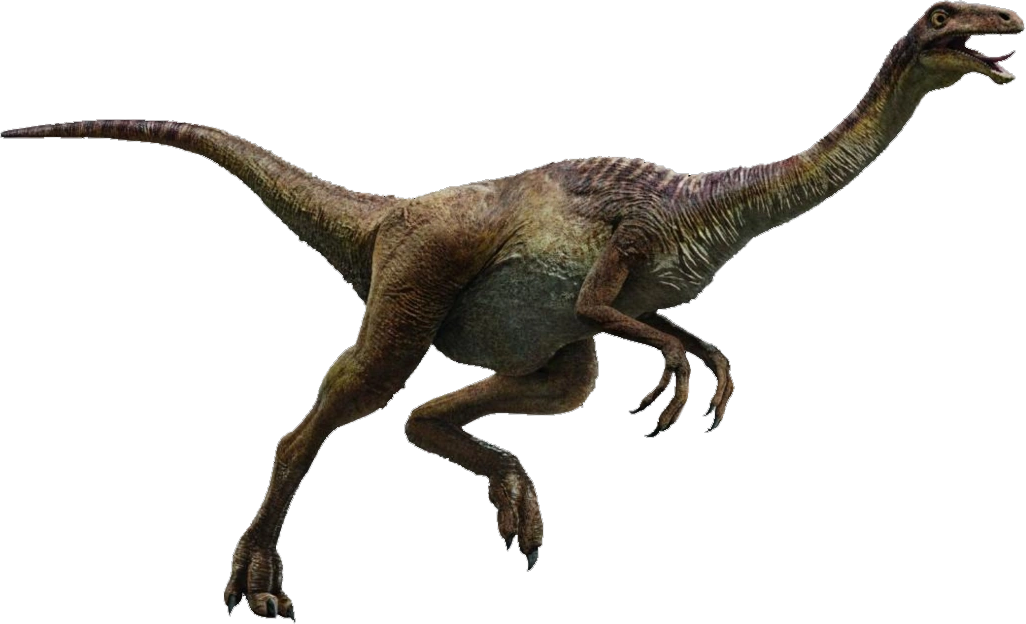
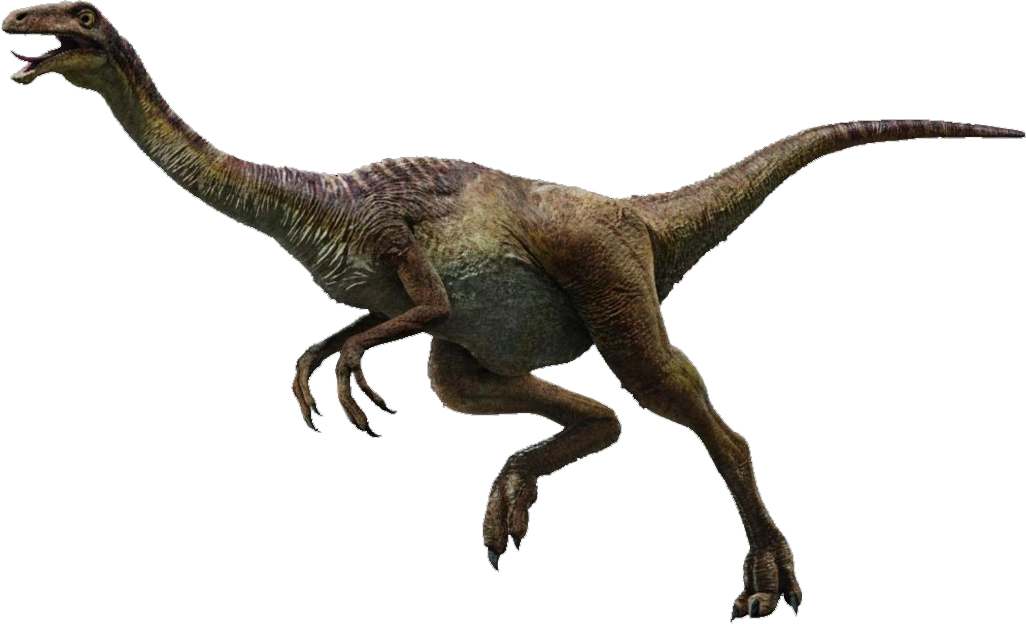
dinosaur positioning.

Changed region(s): [[0.0, 0.0, 1.0, 1.0]]

diff --git a/src/pages/public/Jurassic-Superior/Jurassic-Superior.module.css b/src/pages/public/Jurassic-Superior/Jurassic-Superior.module.css
@@ -2,8 +2,8 @@
   width: 100vw;
   height: 100vh;
   background-image: url(/public/assets/img/era-bg/room-bg-8.png);
-  background-size: 100% 100%;
-  background-position: center;
+  background-size: 100% 105%;
+  background-position: center top;
   background-repeat: no-repeat;
   overflow: hidden;
   position: relative;
@@ -35,22 +35,22 @@
 .geneticBg1 {
   width: 40%;
   height: 70%;
-  left: -2%;
-  bottom: 12%;
+  left: 35%;
+  bottom: 22%;
 }
 
 .geneticBg2 {
   width: 40%;
   height: 60%;
-  left: 28%;
-  bottom: 6%;
+  left: 1%;
+  bottom: 5%;
 }
 
 .geneticBg3 {
   width: 28%;
   height: 40%;
-  left: 65%;
-  bottom: 28%;
+  left: 70%;
+  bottom: 16%;
 }
 
 @keyframes breathe {
@@ -76,16 +76,19 @@
 .dinosaur1 {
   background-image: url(/public/assets/img/dinosaurs/ju-3-Brachiosaurus.png);
   animation: breathe 2s infinite ease-in-out;
+  transform: scaleX(-1);
 }
 
 .dinosaur2 {
   background-image: url(/public/assets/img/dinosaurs/ju-3-Diplodocus.png);
   animation: breathe 4s infinite ease-in-out;
+  
 }
 
 .dinosaur3 {
   background-image: url(/public/assets/img/dinosaurs/ju-3-Stegosaurus.png);
   animation: breathe 3s infinite ease-in-out;
+  
 }
 
 .nameFrame {
@@ -155,33 +158,4 @@
   0% { transform: rotate(3deg); }
   50% { transform: rotate(-3deg); }
   100% { transform: rotate(3deg); }
-}
-
-.plant1,
-.plant2,
-.plant3 {
-  background-size: contain;
-  background-repeat: no-repeat;
-  background-position: center;
-  position: absolute;
-}
-
-.plant1 {
-  width: 30%;
-  height: 30%;
-  left: 50%;
-  top: 0%;
-  background-image: url(/public/assets/img/plants/palm-tree.png);
-  transform-origin: top;
-  animation: sway 4s ease-in-out infinite alternate;
-}
-
-.plant2 {
-  width: 40%;
-  height: 30%;
-  left: 60%;
-  bottom: 0%;
-  background-image: url(/public/assets/img/plants/bush.png);
-  transform-origin: bottom;
-  animation: breathe 4s ease-in-out infinite alternate;
 }

diff --git a/src/pages/public/Cretaceous-Superior/Cretaceous-Superior.module.css b/src/pages/public/Cretaceous-Superior/Cretaceous-Superior.module.css
@@ -33,24 +33,24 @@
 }
 
 .geneticBg1 {
-  width: 10%;
-  height: 30%;
-  left: 15%;
-  bottom: 45%;
+  width: 20%;
+  height: 35%;
+  left: 78%;
+  bottom: 13%;
 }
 
 .geneticBg2 {
   width: 25%;
   height: 38%;
-  left: 37%;
-  bottom: 33%;
+  left: 8%;
+  bottom: 14%;
 }
 
 .geneticBg3 {
-  width: 28%;
-  height: 25%;
-  left: 65%;
-  bottom: 25%;
+  width: 40%;
+  height: 35%;
+  left: 32%;
+  bottom: 23%;
 }
 
 @keyframes breathe {
@@ -84,7 +84,7 @@
 }
 
 .dinosaur3 {
-  background-image: url(/public/assets/img/dinosaurs/cr-3-Tyrannosaurus\ Rex.png);
+  background-image: url(/public/assets/img/dinosaurs/cr-3-Tyrannosaurus-Rex.png);
   animation: breathe 3s infinite ease-in-out;
 }
 
@@ -155,33 +155,4 @@
   0% { transform: rotate(3deg); }
   50% { transform: rotate(-3deg); }
   100% { transform: rotate(3deg); }
-}
-
-.plant1,
-.plant2,
-.plant3 {
-  background-size: contain;
-  background-repeat: no-repeat;
-  background-position: center;
-  position: absolute;
-}
-
-.plant1 {
-  width: 30%;
-  height: 30%;
-  left: 50%;
-  top: 0%;
-  background-image: url(/public/assets/img/plants/palm-tree.png);
-  transform-origin: top;
-  animation: sway 4s ease-in-out infinite alternate;
-}
-
-.plant2 {
-  width: 40%;
-  height: 30%;
-  left: 60%;
-  bottom: 0%;
-  background-image: url(/public/assets/img/plants/bush.png);
-  transform-origin: bottom;
-  animation: breathe 4s ease-in-out infinite alternate;
 }

diff --git a/src/pages/public/Cretaceous-Inferior/Cretaceous-Inferior.module.css b/src/pages/public/Cretaceous-Inferior/Cretaceous-Inferior.module.css
@@ -35,22 +35,22 @@
 .geneticBg1 {
   width: 35%;
   height: 40%;
-  left: 5%;
-  bottom: 25%;
+  left: 32%;
+  bottom: 22%;
 }
 
 .geneticBg2 {
   width: 18%;
   height: 18%;
-  left: 37%;
-  bottom: 30%;
+  left: 9%;
+  bottom: 18%;
 }
 
 .geneticBg3 {
   width: 35%;
   height: 40%;
-  left: 60%;
-  bottom: 30%;
+  left: 67%;
+  bottom: 18%;
 }
 
 @keyframes breathe {
@@ -157,33 +157,4 @@
   0% { transform: rotate(3deg); }
   50% { transform: rotate(-3deg); }
   100% { transform: rotate(3deg); }
-}
-
-.plant1,
-.plant2,
-.plant3 {
-  background-size: contain;
-  background-repeat: no-repeat;
-  background-position: center;
-  position: absolute;
-}
-
-.plant1 {
-  width: 30%;
-  height: 30%;
-  left: 50%;
-  top: 0%;
-  background-image: url(/public/assets/img/plants/palm-tree.png);
-  transform-origin: top;
-  animation: sway 4s ease-in-out infinite alternate;
-}
-
-.plant2 {
-  width: 40%;
-  height: 30%;
-  left: 60%;
-  bottom: 0%;
-  background-image: url(/public/assets/img/plants/bush.png);
-  transform-origin: bottom;
-  animation: breathe 4s ease-in-out infinite alternate;
 }

diff --git a/src/pages/public/Cretaceous-Medium/Cretaceous-Medium.module.css b/src/pages/public/Cretaceous-Medium/Cretaceous-Medium.module.css
@@ -35,22 +35,22 @@
 .geneticBg1 {
   width: 40%;
   height: 45%;
-  left: 3%;
-  bottom: 25%;
+  left: 33%;
+  bottom: 26%;
 }
 
 .geneticBg2 {
   width: 30%;
   height: 38%;
-  left: 37%;
-  bottom: 25%;
+  left: 68%;
+  bottom: 15%;
 }
 
 .geneticBg3 {
   width: 28%;
   height: 25%;
-  left: 70%;
-  bottom: 45%;
+  left: 3%;
+  bottom: 19%;
 }
 
 @keyframes breathe {
@@ -157,33 +157,4 @@
   0% { transform: rotate(3deg); }
   50% { transform: rotate(-3deg); }
   100% { transform: rotate(3deg); }
-}
-
-.plant1,
-.plant2,
-.plant3 {
-  background-size: contain;
-  background-repeat: no-repeat;
-  background-position: center;
-  position: absolute;
-}
-
-.plant1 {
-  width: 30%;
-  height: 30%;
-  left: 50%;
-  top: 0%;
-  background-image: url(/public/assets/img/plants/palm-tree.png);
-  transform-origin: top;
-  animation: sway 4s ease-in-out infinite alternate;
-}
-
-.plant2 {
-  width: 40%;
-  height: 30%;
-  left: 60%;
-  bottom: 0%;
-  background-image: url(/public/assets/img/plants/bush.png);
-  transform-origin: bottom;
-  animation: breathe 4s ease-in-out infinite alternate;
 }

diff --git a/src/pages/public/Jurassic-Medium/Jurassic-Medium.module.css b/src/pages/public/Jurassic-Medium/Jurassic-Medium.module.css
@@ -35,22 +35,23 @@
 .geneticBg1 {
   width: 30%;
   height: 60%;
-  left: 8%;
-  bottom: 19%;
+  left: 36%;
+  bottom: 11%;
+  /* background-color: rebeccapurple; */
 }
 
 .geneticBg2 {
   width: 35%;
   height: 65%;
-  left: 32%;
-  bottom: 13%;
+  left: 3%;
+  bottom: 2%;
 }
 
 .geneticBg3 {
   width: 28%;
   height: 65%;
   left: 68%;
-  bottom: 18%;
+  bottom: 9%;
 }
 
 @keyframes breathe {

diff --git a/src/pages/public/Map/Map.tsx b/src/pages/public/Map/Map.tsx
@@ -110,7 +110,7 @@ export const Map = () => {
                 <PeriodsButtonHover
             stage="stage-9"
             label="superior gallery"
-            link="/cretaceous-medio"
+            link="/cretaceous-superior"
             dinos={[
               "info-cretaceous-3-dino-1 medium-dino",
               "info-cretaceous-3-dino-2 small-dino",
